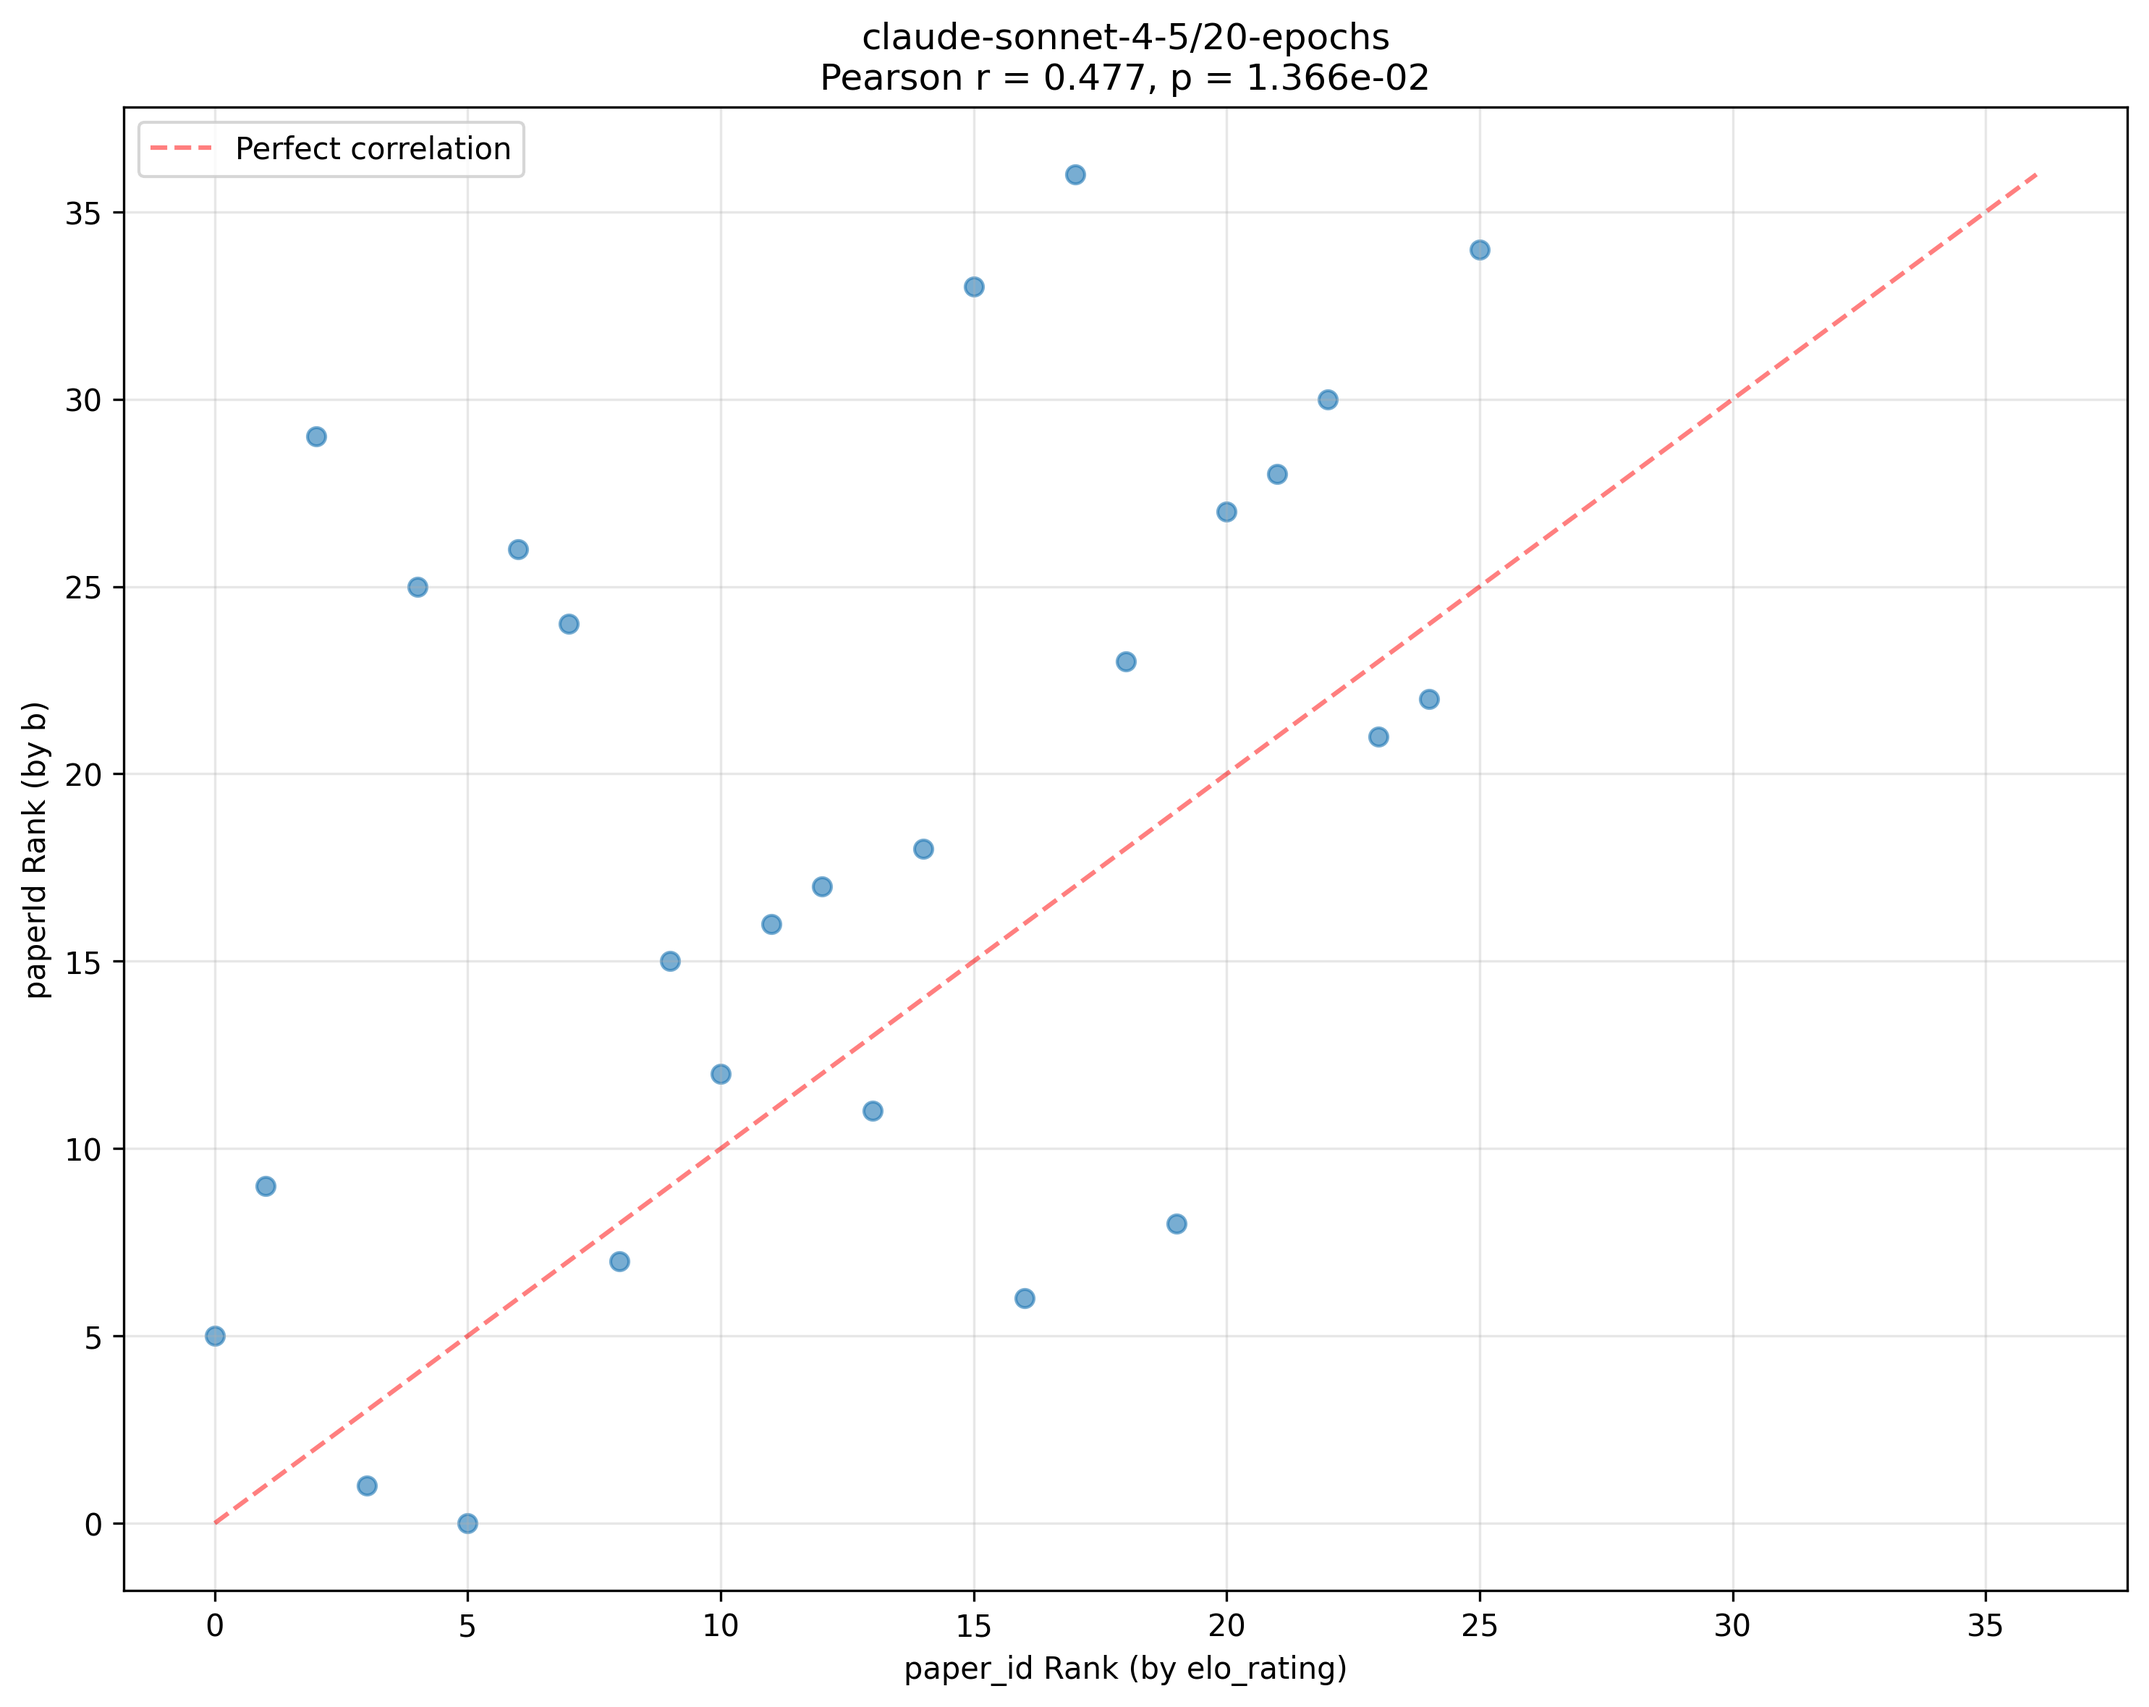
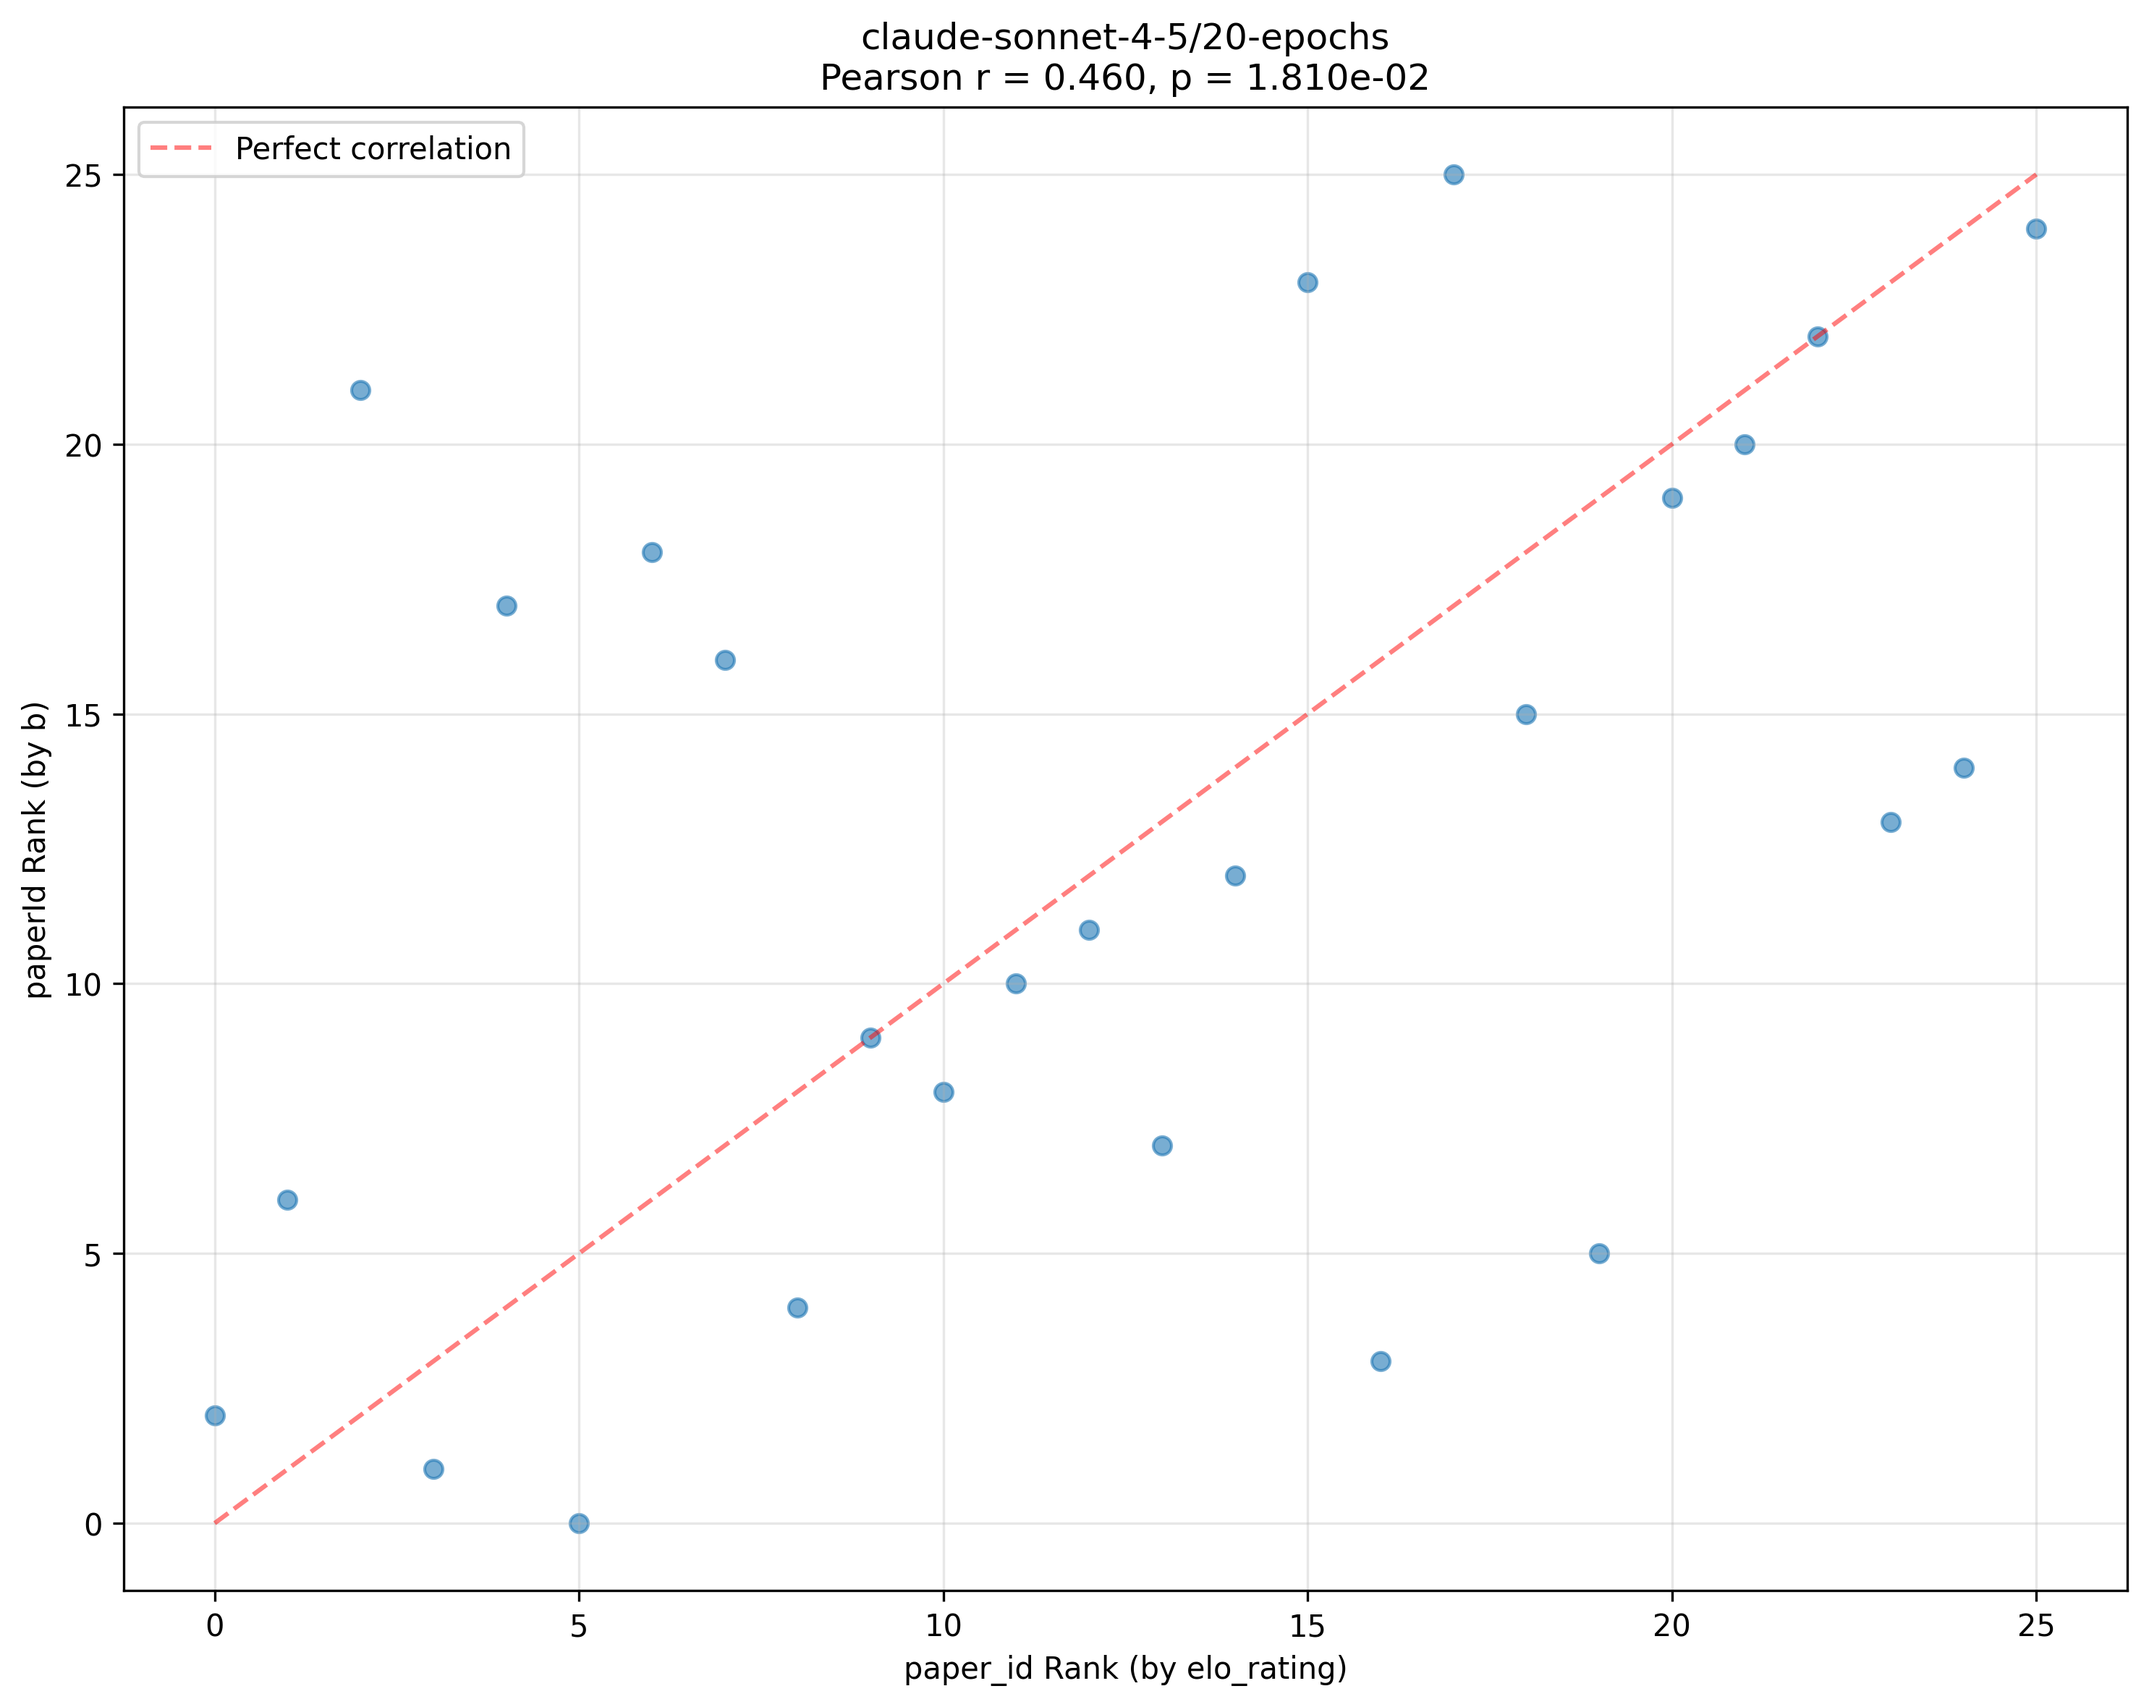
fix bug in graphs for intro-methods and llm-summary

diff --git a/model-elicitation/scripts/filter_fulltext_exists.py b/model-elicitation/scripts/filter_fulltext_exists.py
@@ -1,0 +1,59 @@
+"""
+Script to filter llm_rl_yix_curate_fulltext.csv by removing papers 
+that don't have an intro and methods section in llm_rl_yix_curate_intro_methods.json.
+
+Saves the filtered result as llm_rl_yix_curate_fulltext_exists.csv
+"""
+
+import json
+import pandas as pd
+from pathlib import Path
+
+
+def main():
+    # Define paths
+    data_dir = Path(__file__).parent.parent / "data"
+    json_path = data_dir / "llm_rl_yix_curate_intro_methods.json"
+    csv_path = data_dir / "llm_rl_yix_curate_fulltext.csv"
+    output_path = data_dir / "llm_rl_yix_curate_fulltext_exists.csv"
+
+    # Load the JSON file to get paper IDs with successful intro_and_methods
+    with open(json_path, "r", encoding="utf-8") as f:
+        intro_methods_data = json.load(f)
+
+    # Get paper IDs where success is True (intro_and_methods exists)
+    successful_paper_ids = {
+        paper["paperId"] for paper in intro_methods_data if paper["success"]
+    }
+
+    # Get paper IDs where success is False (intro_and_methods does not exist)
+    failed_paper_ids = {
+        paper["paperId"] for paper in intro_methods_data if not paper["success"]
+    }
+
+    print(f"Total papers in JSON: {len(intro_methods_data)}")
+    print(f"Papers with intro_and_methods: {len(successful_paper_ids)}")
+    print(f"Papers without intro_and_methods: {len(failed_paper_ids)}")
+    print(f"\nPapers to be removed:")
+    for paper in intro_methods_data:
+        if not paper["success"]:
+            print(f"  - {paper['paperId']}: {paper.get('title', 'N/A')}")
+
+    # Load the fulltext CSV
+    df = pd.read_csv(csv_path)
+    original_count = len(df)
+    print(f"\nOriginal CSV row count: {original_count}")
+
+    # Filter to keep only papers with successful intro_and_methods
+    df_filtered = df[df["paperId"].isin(successful_paper_ids)]
+    filtered_count = len(df_filtered)
+    print(f"Filtered CSV row count: {filtered_count}")
+    print(f"Papers removed: {original_count - filtered_count}")
+
+    # Save the filtered CSV
+    df_filtered.to_csv(output_path, index=False)
+    print(f"\nSaved filtered CSV to: {output_path}")
+
+
+if __name__ == "__main__":
+    main()
